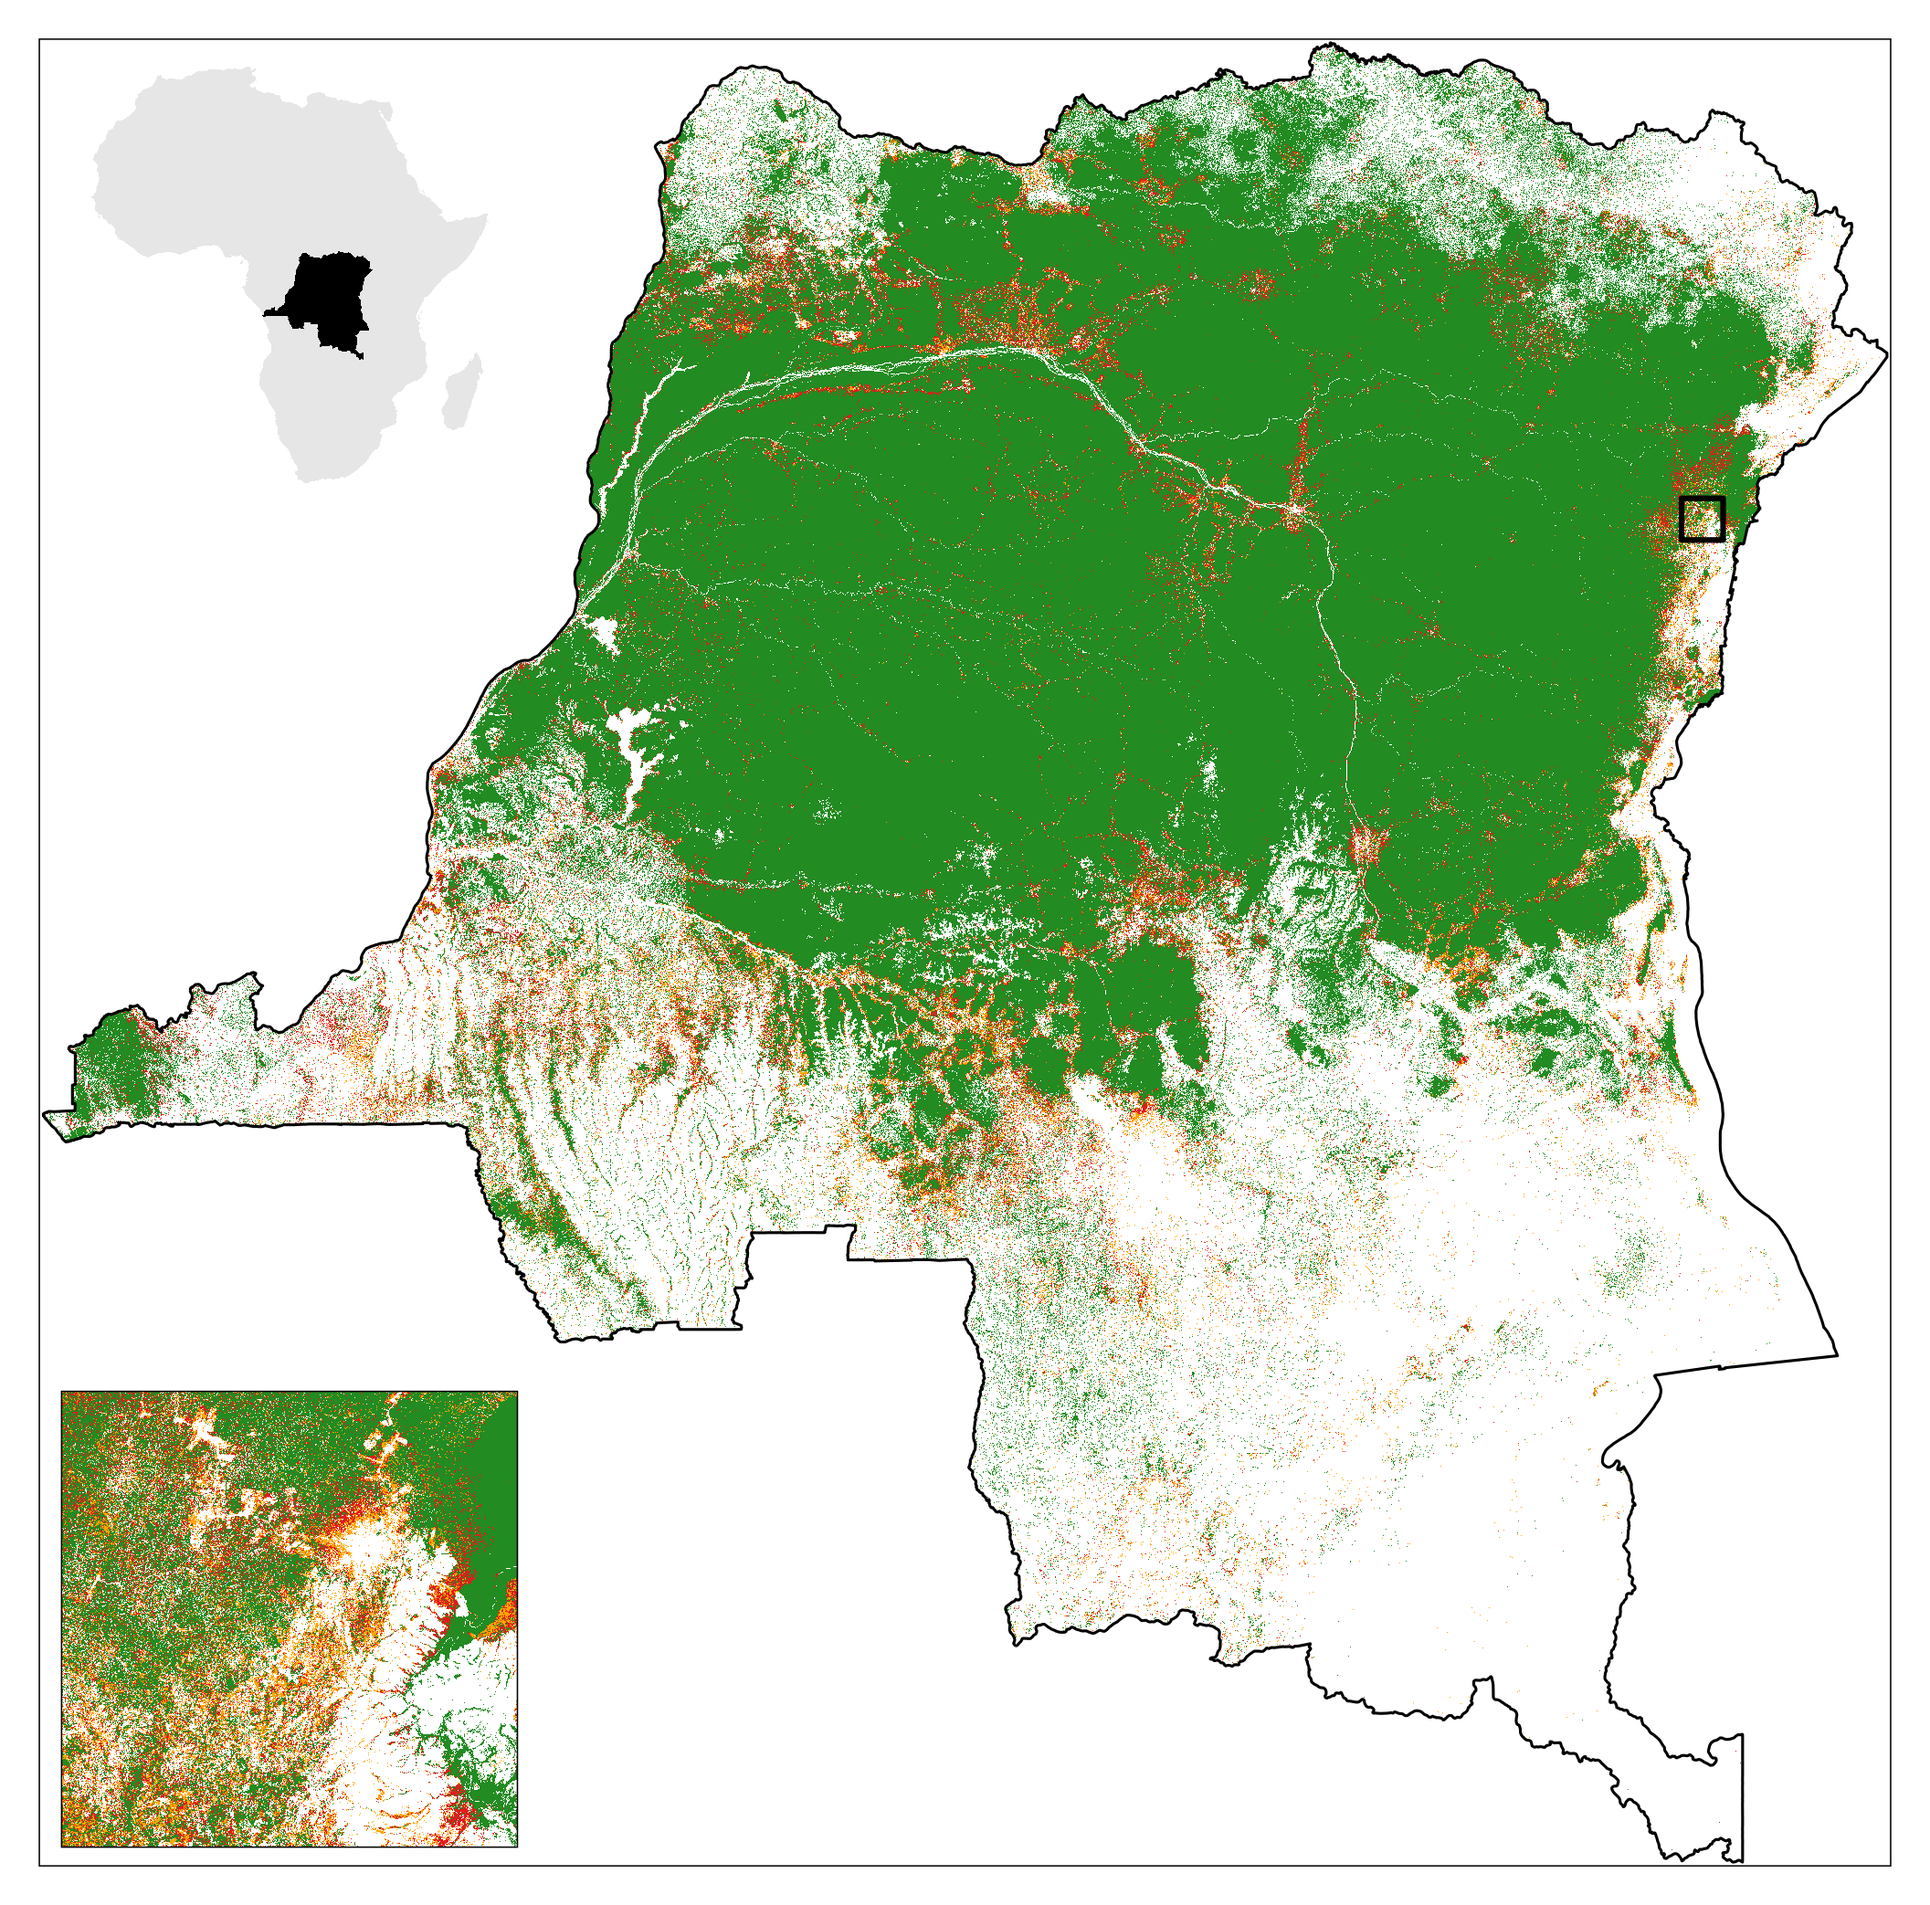
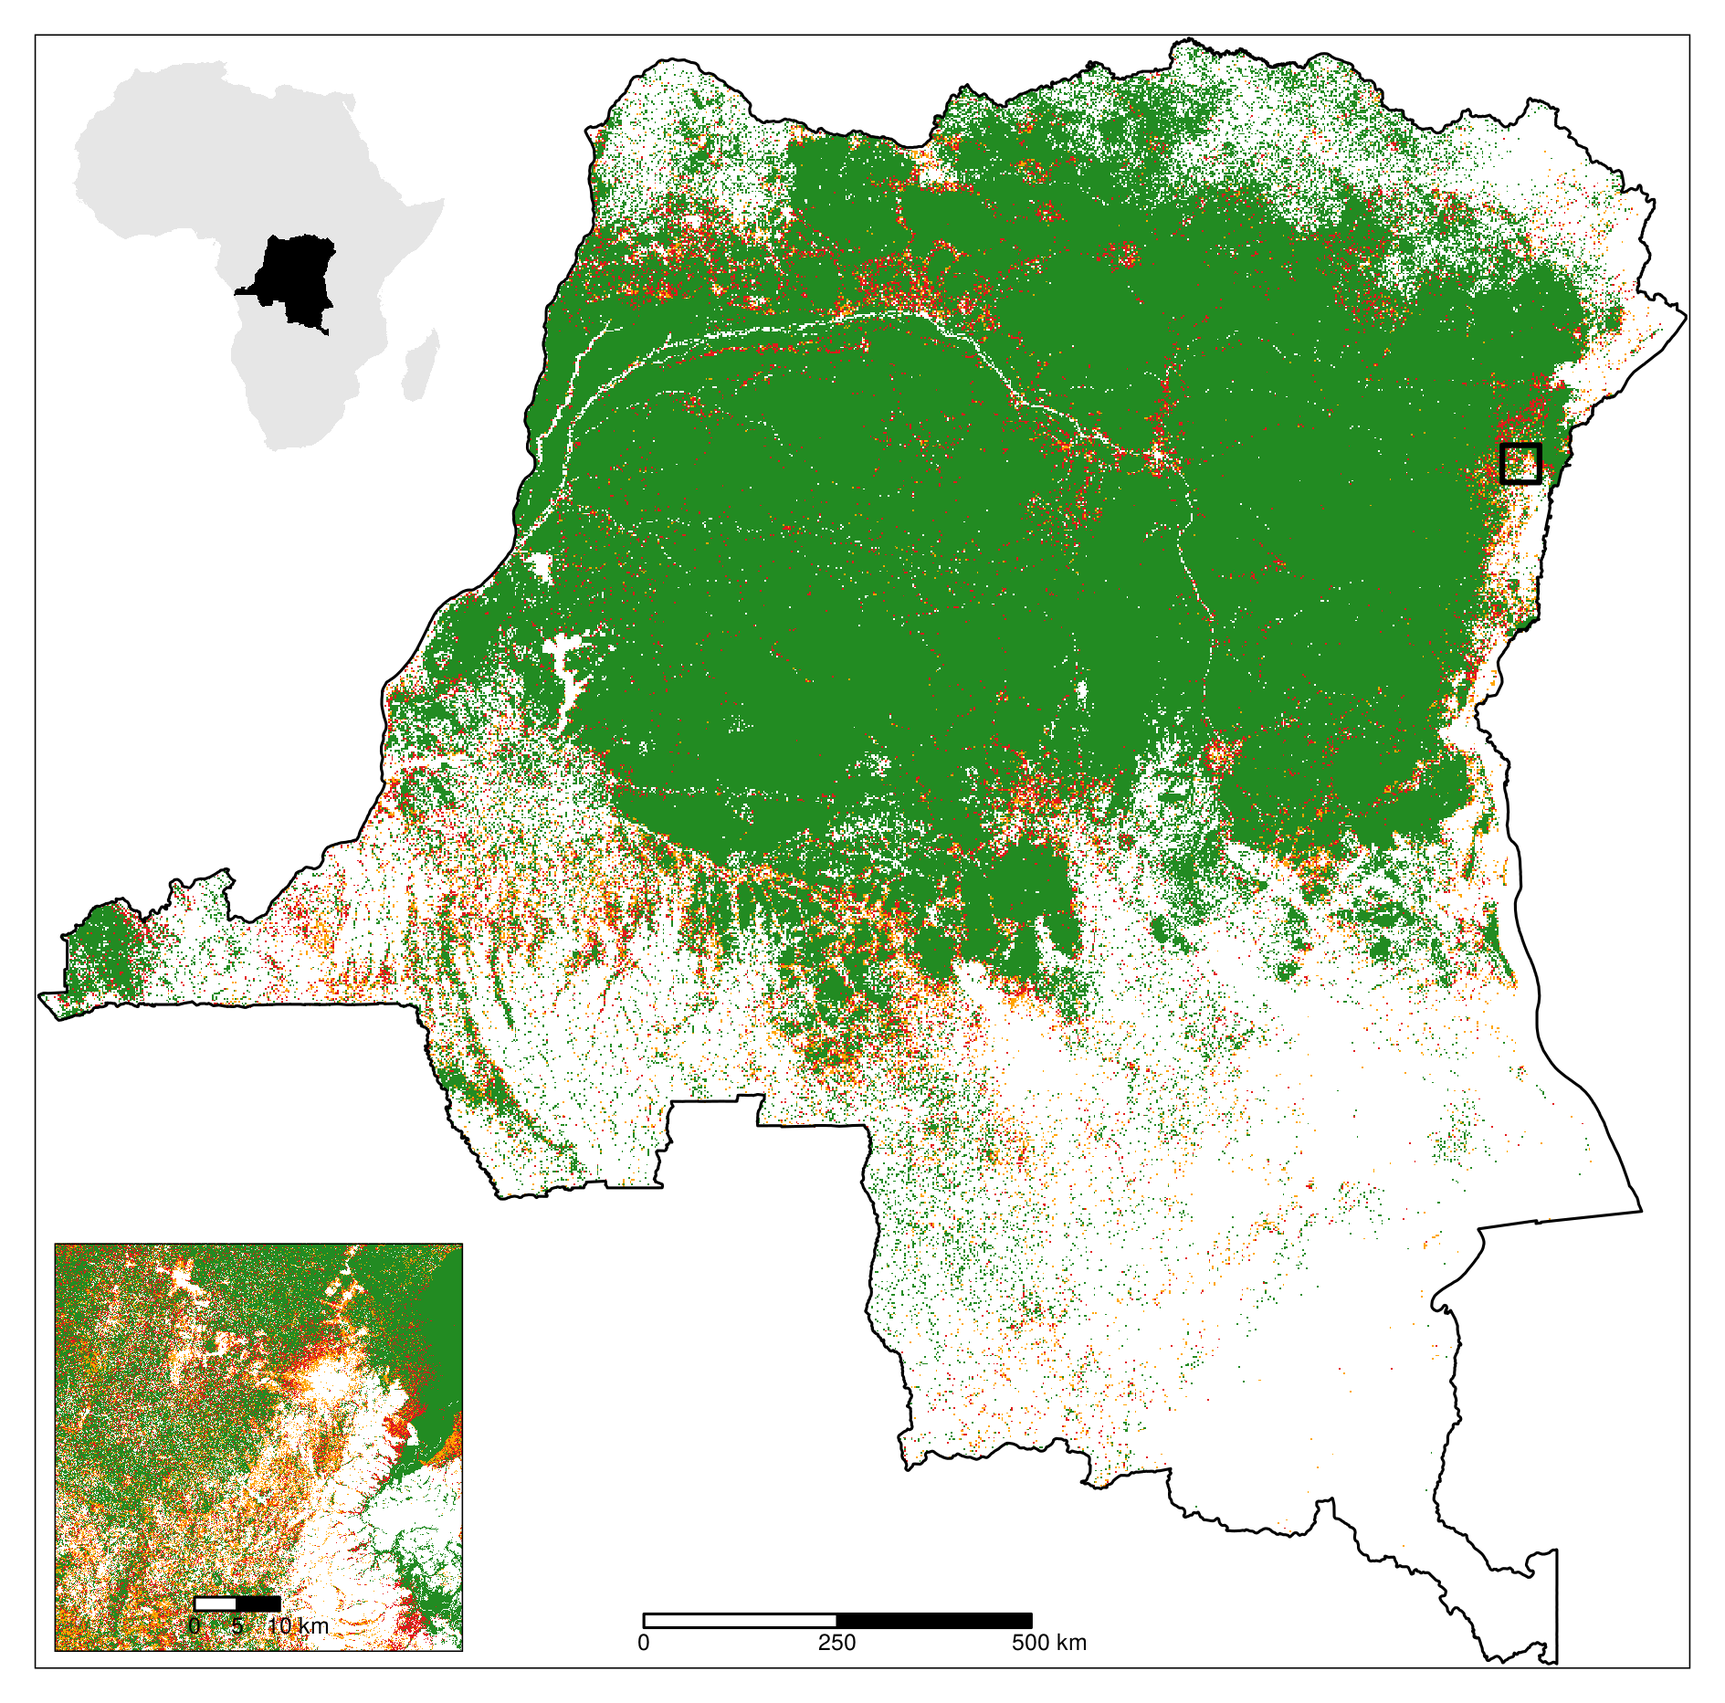
Update figures with png in cm

diff --git a/Manuscript/Article/header.tex b/Manuscript/Article/header.tex
@@ -1,8 +1,21 @@
 \usepackage{booktabs}
+\usepackage{longtable}
+\usepackage{array}
+\usepackage{multirow}
+\usepackage{wrapfig}
 \usepackage{float}
-\definecolor{Blue}{rgb}{0.01, 0.28, 1.0}
+\usepackage{colortbl}
+\usepackage{xcolor}
+\usepackage{pdflscape}
+\usepackage{tabu}
+\usepackage{threeparttable}
+\usepackage{threeparttablex}
+\usepackage[normalem]{ulem}
+\usepackage{makecell}
+\definecolor{Blue}{rgb}{0.01,0.28,1.0}
 \definecolor{Maroon}{rgb}{0.5,0.0,0.0}
 \definecolor{darkgreen}{RGB}{0,150,0}
 \hypersetup{colorlinks=true, citecolor=Blue, urlcolor=Maroon}
 \renewcommand{\thetable}{S\arabic{table}} 
 \renewcommand{\thefigure}{S\arabic{figure}} 
+\renewcommand{\theequation}{S\arabic{equation}}

diff --git a/Manuscript/Supplementary_Materials/header.tex b/Manuscript/Supplementary_Materials/header.tex
@@ -18,3 +18,4 @@
 \hypersetup{colorlinks=true, citecolor=Blue, urlcolor=Maroon}
 \renewcommand{\thetable}{S\arabic{table}} 
 \renewcommand{\thefigure}{S\arabic{figure}} 
+\renewcommand{\theequation}{S\arabic{equation}}
